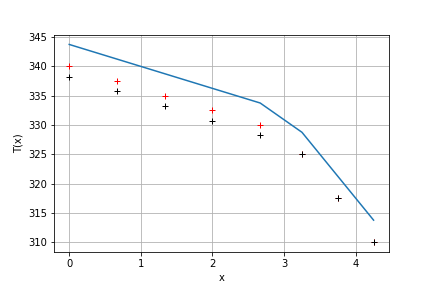
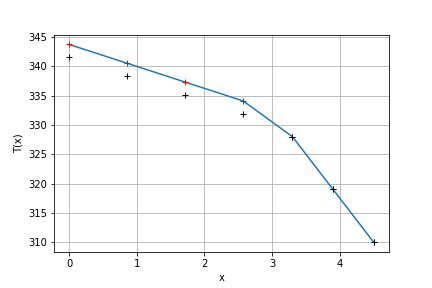
erro no primeiro exercício

diff --git a/app_first_exercise/source/main.cpp b/app_first_exercise/source/main.cpp
@@ -15,33 +15,35 @@ int main()
 {
 	
 	PetscInitialize(NULL,NULL,NULL,NULL);
-	PlainWallInfo firstExerciseInfo;
+	PlainWallInfo infoCenter;
 
-	firstExerciseInfo.numberOfNodes=4;
-	firstExerciseInfo.wallLength = 0.1;
-	firstExerciseInfo.gridType = CENTER;
-	firstExerciseInfo.thermalConduction = 50;
-	firstExerciseInfo.beginBoundaryConditionType = PRESCRIBED_TEMPERATURE;
-	firstExerciseInfo.endBoundaryConditionType = PRESCRIBED_TEMPERATURE;
-	firstExerciseInfo.beginBoundaryConditionInfo.push_back(100);
-	firstExerciseInfo.endBoundaryConditionInfo.push_back(20);
-	firstExerciseInfo.interfaceOperation = EQUIVALENT_RESISTANCE;
+	/*------------------------
+		Malha do tipo CENTRAL 
+	  -------------------------*/
+	infoCenter.numberOfNodes=4;
+	infoCenter.wallLength = 0.1;
+	infoCenter.gridType = CENTER;
+	infoCenter.thermalConduction = 50;
+	infoCenter.beginBoundaryConditionType = PRESCRIBED_TEMPERATURE;
+	infoCenter.endBoundaryConditionType = PRESCRIBED_TEMPERATURE;
+	infoCenter.beginBoundaryConditionInfo.push_back(100);
+	infoCenter.endBoundaryConditionInfo.push_back(20);
+	infoCenter.interfaceOperation = EQUIVALENT_RESISTANCE;
 
-	ControlVolume firstExerciseVC(firstExerciseInfo);
-	AnalyticalSolution firstExerciseAN(firstExerciseInfo);
-	firstExerciseAN.writeSolutionToCsv("../results", "firstExerciseCenterMesh4NodesAN");
-	firstExerciseVC.writeSolutionToCsv("../results", "firstExerciseCenterMesh4NodesVC");
-
+	ControlVolume centerMeshControlVolumeConrtol(infoCenter);
+	AnalyticalSolution centerMeshAnalyticalSolution(infoCenter);
+	centerMeshAnalyticalSolution.writeSolutionToCsv("../results/first_exercise", "centerMesh4NodesAN");
+	centerMeshControlVolumeConrtol.writeSolutionToCsv("../results/first_exercise", "centerMesh4NodesVC");
 	
 	ofstream pFile;
-	pFile.open("../results/first_exercise_table_error.csv",fstream::app);
+	pFile.open("../results/first_exercise/table_error_center.csv",fstream::app);
 	pFile << "numberOfNodes,maximum_error" << endl;
 	pFile << scientific;
 	for (int i = 2; i <= 10; ++i)
 	{
-		firstExerciseInfo.numberOfNodes=i;
-		ControlVolume auxiliarControlVolume(firstExerciseInfo);
-		AnalyticalSolution auxiliarAnalyticalSolution(firstExerciseInfo);
+		infoCenter.numberOfNodes=i;
+		ControlVolume auxiliarControlVolume(infoCenter);
+		AnalyticalSolution auxiliarAnalyticalSolution(infoCenter);
 		vector<double> errorsVec;
 		for (int j = 0; j < i; j++)
 		{
@@ -51,7 +53,48 @@ int main()
 		pFile << i << ", ";
 		pFile << setprecision(16) << maximumError << endl;
 	}
+	pFile.close();
 
+
+	PlainWallInfo infoBoth;
+
+	/*------------------------
+		Malha do tipo BOTH 
+	  -------------------------*/
+	infoBoth.numberOfNodes = 4;
+	infoBoth.wallLength = 0.1;
+	infoBoth.gridType = BOTH;
+	infoBoth.thermalConduction = 50;
+	infoBoth.beginBoundaryConditionType = PRESCRIBED_TEMPERATURE;
+	infoBoth.endBoundaryConditionType = PRESCRIBED_TEMPERATURE;
+	infoBoth.beginBoundaryConditionInfo.push_back(100);
+	infoBoth.endBoundaryConditionInfo.push_back(20);
+	infoBoth.interfaceOperation = EQUIVALENT_RESISTANCE;
+
+	ControlVolume bothMeshControlVolume(infoBoth);
+	AnalyticalSolution bothMeshAnalyticalSolution(infoBoth);
+	bothMeshAnalyticalSolution.writeSolutionToCsv("../results/first_exercise", "bothMesh4NodesAN");
+	bothMeshControlVolume.writeSolutionToCsv("../results/first_exercise", "bothMesh4NodesVC");
+	
+	
+	// pFile.open("../results/first_exercise/table_error_both.csv",fstream::app);
+	// pFile << "numberOfNodes,maximum_error" << endl;
+	// pFile << scientific;
+	// for (int i = 2; i <= 10; ++i)
+	// {
+	// 	infoBoth.numberOfNodes=i;
+	// 	ControlVolume auxiliarControlVolume(infoBoth);
+	// 	AnalyticalSolution auxiliarAnalyticalSolution(infoBoth);
+	// 	vector<double> errorsVec;
+	// 	for (int j = 0; j < i; j++)
+	// 	{
+	// 		errorsVec.push_back(abs(auxiliarAnalyticalSolution[j] - auxiliarControlVolume.getTemperature(j)));
+	// 	}
+	// 	double maximumError = *max_element(errorsVec.begin(),errorsVec.end());
+	// 	pFile << i << ", ";
+	// 	pFile << setprecision(16) << maximumError << endl;
+	// }
+	// pFile.close();
 
 	PetscFinalize();
 	return 0;

diff --git a/python_files/first_exercise_graphics_tables.py b/python_files/first_exercise_graphics_tables.py
@@ -10,18 +10,34 @@ import numpy as np
 import matplotlib.pyplot as plt
 
 
-finiteVolumeData = np.loadtxt('../results/firstExerciseCenterMesh4NodesVC.csv',dtype=float,delimiter=',',skiprows=1)
-analyticalSolutionData = np.loadtxt('../results/firstExerciseCenterMesh4NodesAN.csv',dtype=float,delimiter=',',skiprows=1)
+finiteVolumeDataCenter = np.loadtxt('../results/first_exercise/centerMesh4NodesVC.csv',dtype=float,delimiter=',',skiprows=1)
+analyticalSolutionDataCenter = np.loadtxt('../results/first_exercise/centerMesh4NodesAN.csv',dtype=float,delimiter=',',skiprows=1)
 
-x  = finiteVolumeData.transpose()[0]
-y = finiteVolumeData.transpose()[1]
+x  = finiteVolumeDataCenter.transpose()[0]
+y = finiteVolumeDataCenter.transpose()[1]
 
 plt.plot(x,y,'bo',markersize=8)
-y = analyticalSolutionData.transpose()[1]
+y = analyticalSolutionDataCenter.transpose()[1]
 plt.plot(x,y,'r+')
 plt.grid(b=1, axis='both')
 plt.xlabel('x',fontsize='large')
 plt.ylabel('T(x)')
-plt.savefig('../results/plot_analit_and_finite_volume_4_nodes_central_mesh.png')
+plt.savefig('../results/first_exercise_plot_analit_and_finite_volume_4_nodes_central_mesh.png')
+"""
+plt.clf();
 
+finiteVolumeDataBoth = np.loadtxt('../results/first_exercise/bothMesh4NodesVC.csv',dtype=float,delimiter=',',skiprows=1)
+analyticalSolutionDataBoth = np.loadtxt('../results/first_exercise/bothMesh4NodesAN.csv',dtype=float,delimiter=',',skiprows=1)
 
+x  = finiteVolumeDataBoth.transpose()[0]
+y = finiteVolumeDataBoth.transpose()[1]
+
+plt.plot(x,y,'bo',markersize=8)
+y = analyticalSolutionDataBoth.transpose()[1]
+plt.plot(x,y,'r+')
+plt.grid(b=1, axis='both')
+plt.xlabel('x',fontsize='large')
+plt.ylabel('T(x)')
+plt.savefig('../results/first_exercise/plot_analit_and_finite_volume_4_nodes_both_mesh.png')
+
+"""

diff --git a/app_second_exercise/source/main.cpp b/app_second_exercise/source/main.cpp
@@ -20,7 +20,7 @@ int main()
 	{
 		DoublePlainWallInfo infoWithout;
 
-		infoWithout.numberOfNodes1 = 4;
+		infoWithout.numberOfNodes1 = 5;
 		infoWithout.numberOfNodes2 = 3;
 		infoWithout.wallLength1 = 3.0;
 		infoWithout.wallLength2 = 1.5;
@@ -46,13 +46,7 @@ int main()
 		infoWithout.wallLength2 = 1.6;
 		AnalyticalSolution analytSolA(infoWithout);
 		analytSolA.writeSolutionToCsv("../results", "secondExerciseDivisionNotRespectedAN");
-		cout << scientific;
-		for (int i = 0; i < infoWithout.numberOfNodes1 + infoWithout.numberOfNodes2; i++)
-		{
-			double equivalentResistanceError = abs(contVolEquivResistA.getTemperature(i) - analytSolA[i]);
-			double linearInterpolationError =  abs(contVolLinInterpA.getTemperature(i) - analytSolA[i]);
-			cout << contVolEquivResistA.getPosition(i) << ", " << equivalentResistanceError << ", " << linearInterpolationError << endl;
-		}
+		
 
 	}
 	/*---------------------------------------------
@@ -66,7 +60,7 @@ int main()
 		infoEveryPosition.wallLength1 = 3.0;
 		infoEveryPosition.wallLength2 = 1.5;
 		infoEveryPosition.gridType1 = WEST;
-		infoEveryPosition.gridType2 = CENTER;
+		infoEveryPosition.gridType2 = EAST;
 		infoEveryPosition.thermalConduction1 = 80.0;
 		infoEveryPosition.thermalConduction2 = 20.0;
 		infoEveryPosition.beginBoundaryConditionType = PRESCRIBED_FLUX;
@@ -154,6 +148,7 @@ int main()
 		toFile.close();
 		cout << "maximum Error valeus saved in ../results/second_exercise_maximum_error.csv" << endl;
 	}
+
 
 	
 	PetscFinalize();

diff --git a/lib/source/LinearSystem.cpp b/lib/source/LinearSystem.cpp
@@ -5,6 +5,7 @@ LinearSystem::LinearSystem(int numberOfNodes): matrixOrder(numberOfNodes)
 	allocSolutionVector(numberOfNodes);
 	allocIndependentValuesVector(numberOfNodes);
 	allocMatrixOfCoeficients(numberOfNodes);
+    
 }
 
 double LinearSystem::operator[](const int index)
@@ -26,7 +27,18 @@ void LinearSystem::setValueToVector(int index, double value)
 
 void LinearSystem::solve()
 {
-	KSP            ksp;          /* linear solver context */
+	int numberOfNodes = this -> matrixOrder;
+    cout << "Inicio matrix \n";
+    for (int i = 0; i < numberOfNodes; i++)
+    {
+        for(int j = 0; j < numberOfNodes; j++)
+        {
+            cout << this -> matrixOfCoeficients[i][j] << ", ";
+        }
+        cout << endl;
+    }
+
+    KSP            ksp;          /* linear solver context */
     Vec            x,b;          /* solution, residual vectors */
     Mat            A;            
     PetscInt n = this -> matrixOrder;
@@ -90,6 +102,7 @@ void LinearSystem::solve()
         VecGetValues(x,1,&i,&value);
         this -> solution[i] = value;
     }
+    
     // VecView(x,PETSC_VIEWER_STDOUT_WORLD);
     // /*---------------------------------------------
     //     DESTRUIÇÃO DOS OBJETOS DA PETSC CRIADOS
@@ -97,6 +110,7 @@ void LinearSystem::solve()
     VecDestroy(&x);
     VecDestroy(&b);
     MatDestroy(&A);
+    KSPDestroy(&ksp);
 }
 
 void LinearSystem::allocIndependentValuesVector(int vectorSize)

diff --git a/libTest/source/libTest.cpp b/libTest/source/libTest.cpp
@@ -303,7 +303,7 @@ TestCase(AnalyticalSolution_ContVol_Test)
 
 	firstExerciseInfo.numberOfNodes = 10;
 	firstExerciseInfo.wallLength = 13;
-	firstExerciseInfo.gridType = CENTER;
+	firstExerciseInfo.gridType = BOTH;
 	firstExerciseInfo.thermalConduction = 13;
 	firstExerciseInfo.beginBoundaryConditionType = PRESCRIBED_TEMPERATURE;
 	firstExerciseInfo.endBoundaryConditionType = PRESCRIBED_TEMPERATURE;

diff --git a/lib/source/AnalyticalSolution.cpp b/lib/source/AnalyticalSolution.cpp
@@ -97,7 +97,7 @@ double AnalyticalSolution::evalSecondProblemTemperatureLaw(double position, Doub
 	double T0 = Tinf + q * R;
 	if(position <= LA)
 		return T0 - (q/KA)*position;
-	else if ((position > LA) && (position <= LA + LB))
+	else if ((position > LA) && (position <= LA + (1.01)*LB))
 	{
 		double TLA = T0 - (q/KA)*LA;
 		R = (LA/KA) + (LB/KB);

diff --git a/lib/source/ControlVolume.cpp b/lib/source/ControlVolume.cpp
@@ -20,6 +20,7 @@ ControlVolume::ControlVolume(PlainWallInfo data):
 		solver.setValueToMatrix(i,i,ap);	
 	}
 	endProcessor();
+	
 	this -> solver.solve();
 
 	this -> temperatureField.resize(n);
